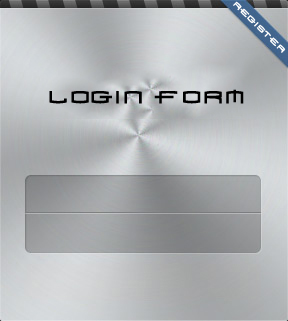
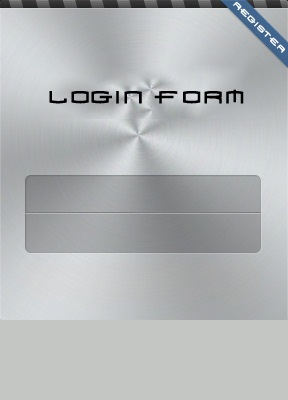
Update

diff --git a/inventory/inventory/styles.css b/inventory/inventory/styles.css
@@ -47,7 +47,7 @@ section, footer{
 
 #formContainer{
 	width:288px;
-	height:321px;
+	height:421px;
 	margin:0 auto;
 	position:relative;
 	z-index:1;

diff --git a/inventory/inventory/index.php b/inventory/inventory/index.php
@@ -30,6 +30,47 @@
           <script src="http://html5shiv.googlecode.com/svn/trunk/html5.js"></script>
 
         <![endif]-->
+        <style>
+        button{
+	
+		/* button */
+	
+		opacity:0.9;
+		position:absolute;
+		top:342px;
+		left:25px;
+		width: 239px;
+		height:36px;
+		cursor:pointer;
+		border-radius:6px;
+		box-shadow:0 1px 1px #888;
+		border:none;
+		color:#fff;
+		font:14px/36px 'Segoe UI Light','Segoe UI',Arial,sans-serif;
+	
+		/* CSS3 Gradients */
+	
+		background-image: linear-gradient(bottom, rgb(80,102,127) 50%, rgb(87,109,136) 50%, rgb(106,129,155) 100%);
+		background-image: -o-linear-gradient(bottom, rgb(80,102,127) 50%, rgb(87,109,136) 50%, rgb(106,129,155) 100%);
+		background-image: -moz-linear-gradient(bottom, rgb(80,102,127) 50%, rgb(87,109,136) 50%, rgb(106,129,155) 100%);
+		background-image: -webkit-linear-gradient(bottom, rgb(80,102,127) 50%, rgb(87,109,136) 50%, rgb(106,129,155) 100%);
+		background-image: -ms-linear-gradient(bottom, rgb(80,102,127) 50%, rgb(87,109,136) 50%, rgb(106,129,155) 100%);
+	
+		background-image: -webkit-gradient(
+			linear,
+			left bottom,
+			left top,
+			color-stop(0.5, rgb(80,102,127)),
+			color-stop(0.5, rgb(87,109,136)),
+			color-stop(1, rgb(106,129,155))
+		);
+		}
+
+		#formContainer{
+			height:400px;
+		}	
+        </style>
+
 
     </head>
 
@@ -46,13 +87,18 @@ echo '<li>',$msg,'</li>';
 echo '</ul>';
 unset($_SESSION['ERRMSG_ARR']);
 }
-$remark=$_GET['id'];
-if($remark=='success')
-{
-echo '<ul>';
-echo '<li>'." Registration Success You can now login ".'</li>';
-echo '</ul>';
-}
+
+if(isset($_GET['id']))
+	{
+		$remark=$_GET['id'];
+		if($remark=='success')
+		{
+		echo '<ul>';
+		echo '<li>'." Registration Success You can now login ".'</li>';
+		echo '</ul>';
+		}
+	}
+
 ?>
 </div>
 
@@ -68,6 +114,8 @@ echo '</ul>';
 				<input type="password" name="password" id="loginPass" placeholder="Password" />
 
 				<input type="submit" name="submit" value="Login" />
+
+				<button onclick="location.href='../../index.php'" type="button">Back to Portal</button>
 
 			</form>
 

diff --git a/inventory/inventory/tableedit.php b/inventory/inventory/tableedit.php
@@ -276,18 +276,26 @@ while($row = mysqli_fetch_array($result1))
 	<form action="tableedit.php#sales" method="post">
 	From: <input name="from" type="text" class="tcal"/>
       To: <input name="to" type="text" class="tcal"/>
-	  <input name="" type="submit" value="Seach" />
+	  <input name="" type="submit" value="Search" />
 	  </form><br />
 	 Total Sales:  
 	  <?php
-	  $a=$_POST['from'];
-	  $b=$_POST['to'];
-		$result1 = mysqli_query($bd, "SELECT sum(sales) FROM sales where date BETWEEN '$a' AND '$b'");
+	  $searched=0;
+	  if(isset($_POST['submit'])) {
+	  	$searched=1;
+	  }
+	  if($searched==1){
+	  	$a=$_POST['from'];
+	  	$b=$_POST['to'];
+	  	$result1 = mysqli_query($bd, "SELECT sum(sales) FROM sales where date BETWEEN '$a' AND '$b'");
 		while($row = mysqli_fetch_array($result1))
 		{
 			$rrr=$row['sum(sales)'];
 			echo formatMoney($rrr, true);
-		 }
+		}
+	  }
+
+		
 		
 		?>
 </div>

diff --git a/inventory/inventory/updateproduct.php b/inventory/inventory/updateproduct.php
@@ -2,7 +2,7 @@
 include("db.php");
 $proid=$_POST['ITEM'];
 $itemnumber=$_POST['itemnumber'];
-mysql_query("UPDATE inventory SET qtyleft='$itemnumber'
+mysqli_query($bd,"UPDATE inventory SET qtyleft=qtyleft+'$itemnumber'
 WHERE id='$proid'");
 header("location: tableedit.php#page=addproitem");
 ?>

diff --git a/inventory/inventory/updateprice.php b/inventory/inventory/updateprice.php
@@ -2,7 +2,7 @@
 include("db.php");
 $proid=$_POST['ITEM'];
 $itemprice=$_POST['itemprice'];
-mysql_query("UPDATE inventory SET price='$itemprice'
+mysqli_query($bd,"UPDATE inventory SET price='$itemprice'
 WHERE id='$proid'");
 header("location: tableedit.php#page=editprice");
 ?>
